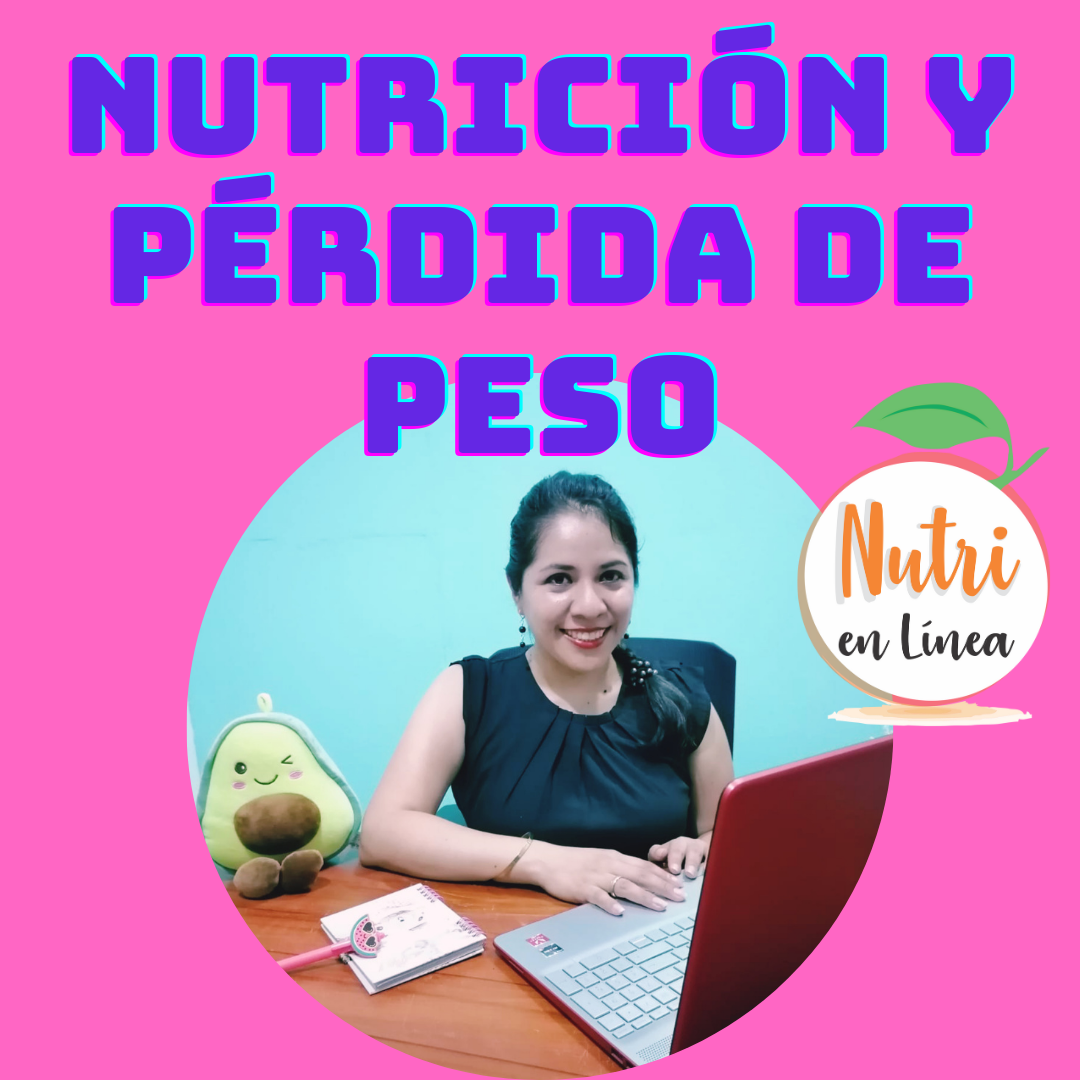
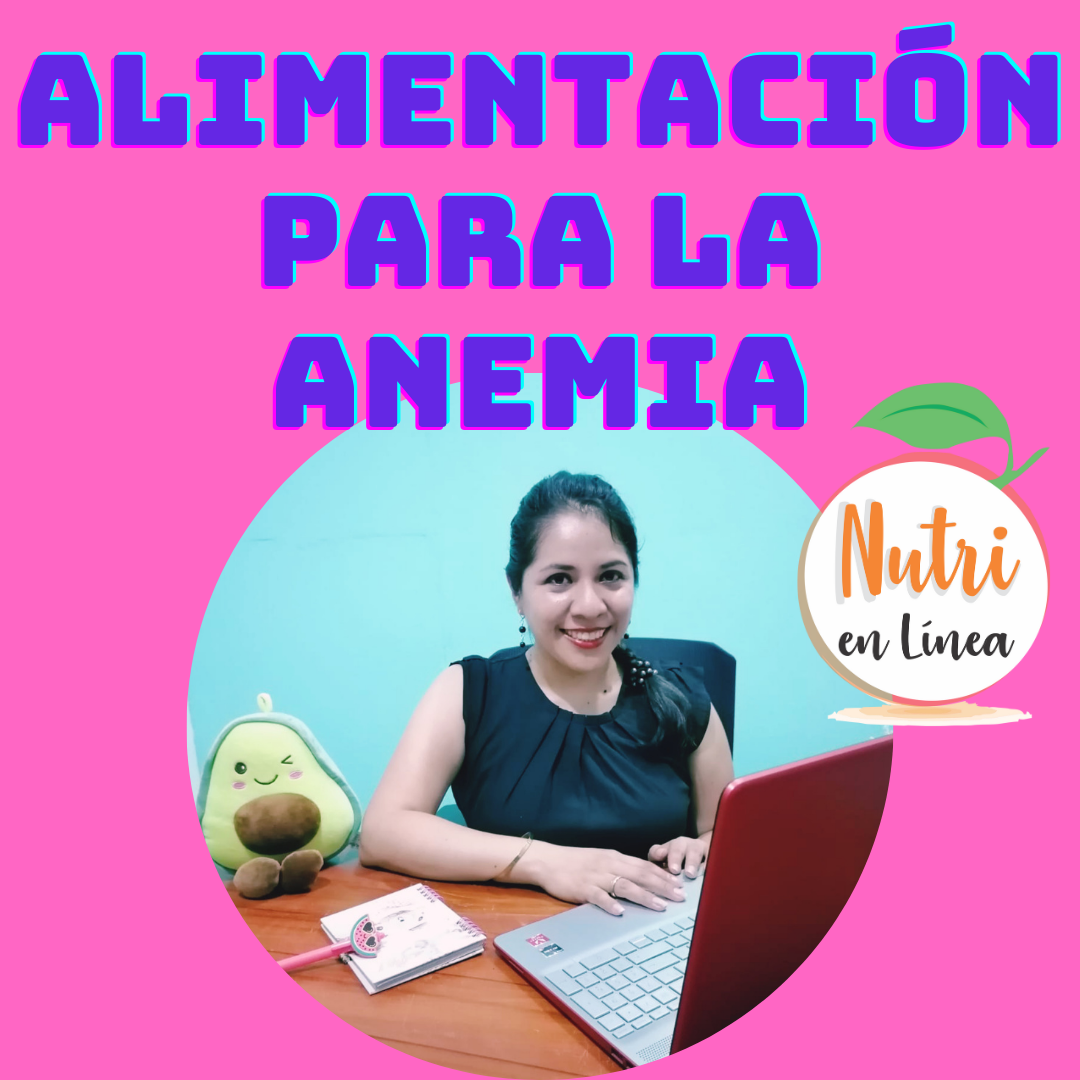
ACTUALIZACION 12

Changed region(s): [[0.0, 0.0, 1.0, 0.4278]]

diff --git a/servicios.html b/servicios.html
@@ -9,10 +9,14 @@
 </head>
 <body>
   <header>
-    <div class="logo">
-      <img src="img/logo.png">
-      <h1>Cynthia Fuentes</h1>
-    </div>
+    <div class="logo-nutricionista">
+      <img src="img/logo.png" alt="Nutri en Línea" class="logo">
+      <div class="info-nutricionista">
+          <span class="nombre">Cynthia Fuentes</span>
+          <span class="titulo">Nutricionista</span>
+          <span class="registro">CNP 4000</span>
+      </div>
+      </div>
     <nav>
       <ul>
         <li><a href="index.html">Inicio</a></li>
@@ -39,11 +43,11 @@
             <img src="img/PLAN NUTRICIONAL.png" alt="Corazón">
           </div>
           <div class="service-content">
-            <h3>Planes Personalizados</h3>
-            <p>Diseño un plan nutricional completamente adaptado a tus necesidades, objetivos y preferencias alimentarias. Cada persona es única, y tu plan nutricional también lo será.</p>
+            <h3>Planes Nutricionales Personalizados</h3>
+            <p>Diseño un plan nutricional completamente adaptado a tus necesidades, objetivos y preferencias alimentarias. Cada persona es única y tu plan nutricional también lo será.</p>
             <ul>
-              <li>Evaluación nutricional completa</li>
-              <li>Plan alimentario personalizado</li>
+              <li>Evaluación nutricional</li>
+              <li>Plan nutricional personalizado</li>
               <li>Seguimiento y ajustes periódicos</li>
               <li>Recomendaciones de suplementación si es necesario</li>
               <li>Educación nutricional personalizada</li>
@@ -58,13 +62,13 @@
           </div>
           <div class="service-content">
             <h3>Talleres Presenciales</h3>
-            <p>Participa en sesiones grupales donde aprenderás sobre diversos temas de nutrición en un ambiente interactivo y colaborativo. Ideal para empresas, instituciones educativas o grupos con intereses comunes.</p>
+            <p>Participa en sesiones grupales donde aprenderás sobre diversos temas de nutrición en un ambiente interactivo. Ideal para empresas, instituciones educativas o grupos con intereses comunes.</p>
             <ul>
-              <li>Alimentación consciente</li>
-              <li>Nutrición para deportistas</li>
-              <li>Cocina saludable y práctica</li>
+              <li>Alimentación saludable</li>
+              <li>Nutrición para gestantes</li>
+              <li>Higiene y manipulación de alimentos</li>
               <li>Etiquetado nutricional</li>
-              <li>Gestión de la alimentación familiar</li>
+              <li>Alimentación en la anemia</li>
             </ul>
             <a href="https://wa.link/96ggve" class="btn">Más información</a>
           </div>
@@ -78,11 +82,9 @@
             <h3>Talleres Virtuales</h3>
             <p>La misma calidad y contenido de los talleres presenciales, pero en formato digital para que puedas acceder desde cualquier lugar. Perfecto para quienes prefieren aprender a su propio ritmo o tienen limitaciones geográficas.</p>
             <ul>
-              <li>Webinars interactivos</li>
-              <li>Cursos online autoguiados</li>
               <li>Material educativo descargable</li>
               <li>Sesiones de preguntas y respuestas</li>
-              <li>Comunidad de apoyo online</li>
+              <li>Grupos de apoyo por whatsapp</li>
             </ul>
             <a href="https://wa.link/220pns" class="btn">Más información</a>
           </div>

diff --git a/talleres-grabados.html b/talleres-grabados.html
@@ -9,9 +9,13 @@
 </head>
 <body>
   <header>
-    <div class="logo">
-      <img src="img/logo.png">
-      <h1>Cynthia Fuentes</h1>
+    <div class="logo-nutricionista">
+      <img src="img/logo.png" alt="Nutri en Línea" class="logo">
+      <div class="info-nutricionista">
+          <span class="nombre">Cynthia Fuentes</span>
+          <span class="titulo">Nutricionista</span>
+          <span class="registro">CNP 4000</span>
+      </div>
     </div>
     <nav>
       <ul>
@@ -48,7 +52,7 @@
             </div>
             <div class="workshop-content">
               <h3>Taller de Loncheras saludables</h3>
-              <p>Aprende a preparar loncheras saludables, rápidas y deliciosas para tus hijos, además te damos ideas para dos semanas. </p>
+              <p>Aprende a preparar loncheras saludables, rápidas y deliciosas para tus hijos, además te damos ideas para tres semanas. </p>
               <div class="workshop-price">29 S/. (pregunta por el dscto. para pacientes)</div>
               <a href="https://wa.link/e05ngl">
                  <button class="btn workshop-btn">Ver detalles</button>
@@ -69,7 +73,7 @@
             </div>
             <div class="workshop-content">
               <h3>Nutrición y pérdida de peso</h3>
-              <p>Pierde peso de forma saludable y sostenible con la guía de una nutricionista y sin dietas extremas.</p>
+              <p>Pierde peso de forma saludable y sostenible con la guía de una nutricionista y sin dietas restrictivas.</p>
               <div class="workshop-price">29 S/.(pregunta por el dscto. para pacientes)</div>
               <a href="https://wa.link/skjjb4">
                 <button class="btn workshop-btn">Ver detalles</button>
@@ -108,8 +112,8 @@
               </div>
             </div>
             <div class="workshop-content">
-              <h3>Taller de nutrición para gastritis</h3>
-              <p>Descubre qué comer y qué evitar para aliviar la gastritis y mejorar tu salud digestiva de forma natural.</p>
+              <h3>Taller de alimentación para la Anemia</h3>
+              <p>Descubre cómo combatir la anemia con una alimentación balanceada y nutritiva. Aprende recetas y consejos esenciales para tu salud.</p>
               <div class="workshop-price">29 S/.</div>
               <button class="btn workshop-btn">Proximamente</button>
             </div>

diff --git a/index.html b/index.html
@@ -8,10 +8,15 @@
 </head>
 <body>
   <header>
-    <div class="logo">
-      <img src="img/logo.png">
-      <h1>Cynthia Fuentes</h1>
-    </div>
+    <div class="logo-nutricionista">
+      <img src="img/logo.png" alt="Nutri en Línea" class="logo">
+      <div class="info-nutricionista">
+          <span class="nombre">Cynthia Fuentes</span>
+          <span class="titulo">Nutricionista</span>
+          <span class="registro">CNP 4000</span>
+      </div>
+  </div>
+  
     <nav>
       <ul>
         <li><a href="index.html" class="active">Inicio</a></li>
@@ -52,10 +57,10 @@
            <img src="img/cynthia3.png" alt="Cynthia Fuentes - Nutricionista">
           </div>
           <div class="about-text poppins-regular">
-            <p>Soy Cynthia Fuentes, nutricionista certificada con más de 10 años de experiencia en el campo de la nutrición.</p>
+            <p>Soy Cynthia Fuentes, nutricionista egresada de la Universidad Mayor de San Marcos con más de 15 años de experiencia en el campo de la nutrición.</p>
             <p>Mi enfoque profesional se basa en crear planes personalizados que se adapten a las necesidades específicas de cada persona, considerando sus objetivos, preferencias y estilo de vida.</p>
             <p>A lo largo de mi trayectoria, he trabajado con diversos pacientes, personas que buscan mejorar su salud en general, bajar de peso, subir de peso, controlar alguna enfermedad, gestantes, etc. </p>
-            <p>Mi pensamiento es que la alimentación saludable debe ser disfrutable y sostenible a largo plazo, no una restricción temporal.</p>
+            <p>Mi pensamiento es que se debe disfrutar de una alimentación saludable y esta debe ser sostenible a largo plazo.</p>
           </div>
         </div>
       </div>

diff --git a/calculadora.html b/calculadora.html
@@ -11,9 +11,13 @@
 </head>
 <body>
   <header>
-    <div class="logo">
-      <img src="img/logo.png">
-      <h1>Cynthia Fuentes</h1>
+    <div class="logo-nutricionista">
+      <img src="img/logo.png" alt="Nutri en Línea" class="logo">
+      <div class="info-nutricionista">
+          <span class="nombre">Cynthia Fuentes</span>
+          <span class="titulo">Nutricionista</span>
+          <span class="registro">CNP 4000</span>
+      </div>
     </div>
     <nav>
       <ul>
@@ -37,7 +41,7 @@
        
     <div class="container-calc">
       
-      <img src="img/logo.png" alt="Calculadora IMC">
+      <img src="img/calculadora-nutri.png" width="100%" alt="Calculadora IMC">
 
       <div class="calculadora">
           <form id="formIMC">
@@ -79,6 +83,10 @@
               <div class="imc-descripcion" id="imcDescripcion"></div>
           </div>
           <button id="nuevoCalculo">Nuevo cálculo</button>
+          <button id="solicitarPlan">
+            <a href="https://wa.me/51986110678" target="_blank"></a>
+            SOLICITAR PLAN PERSONALIZADO
+          </button>
       </div>
   </div>
   

diff --git a/contacto.html b/contacto.html
@@ -9,9 +9,13 @@
 </head>
 <body>
   <header>
-    <div class="logo">
-      <img src="img/logo.png">
-      <h1>Cynthia Fuentes</h1>
+    <div class="logo-nutricionista">
+      <img src="img/logo.png" alt="Nutri en Línea" class="logo">
+      <div class="info-nutricionista">
+          <span class="nombre">Cynthia Fuentes</span>
+          <span class="titulo">Nutricionista</span>
+          <span class="registro">CNP 4000</span>
+      </div>
     </div>
     <nav>
       <ul>

diff --git a/styles-calc.css b/styles-calc.css
@@ -70,6 +70,7 @@ button {
     display: block;
     width: 100%;
     transition: background-color 0.3s;
+    text-decoration: none;
 }
 
 button:hover {
@@ -205,5 +206,14 @@ button:hover {
 }
 
 #nuevoCalculo:hover {
+    background-color: #27ae60;
+}
+
+#solicitarPlan {
+    margin-top: 20px;
+    background-color: #dd151f;
+}
+
+#solicitarPlan:hover {
     background-color: #27ae60;
 }
